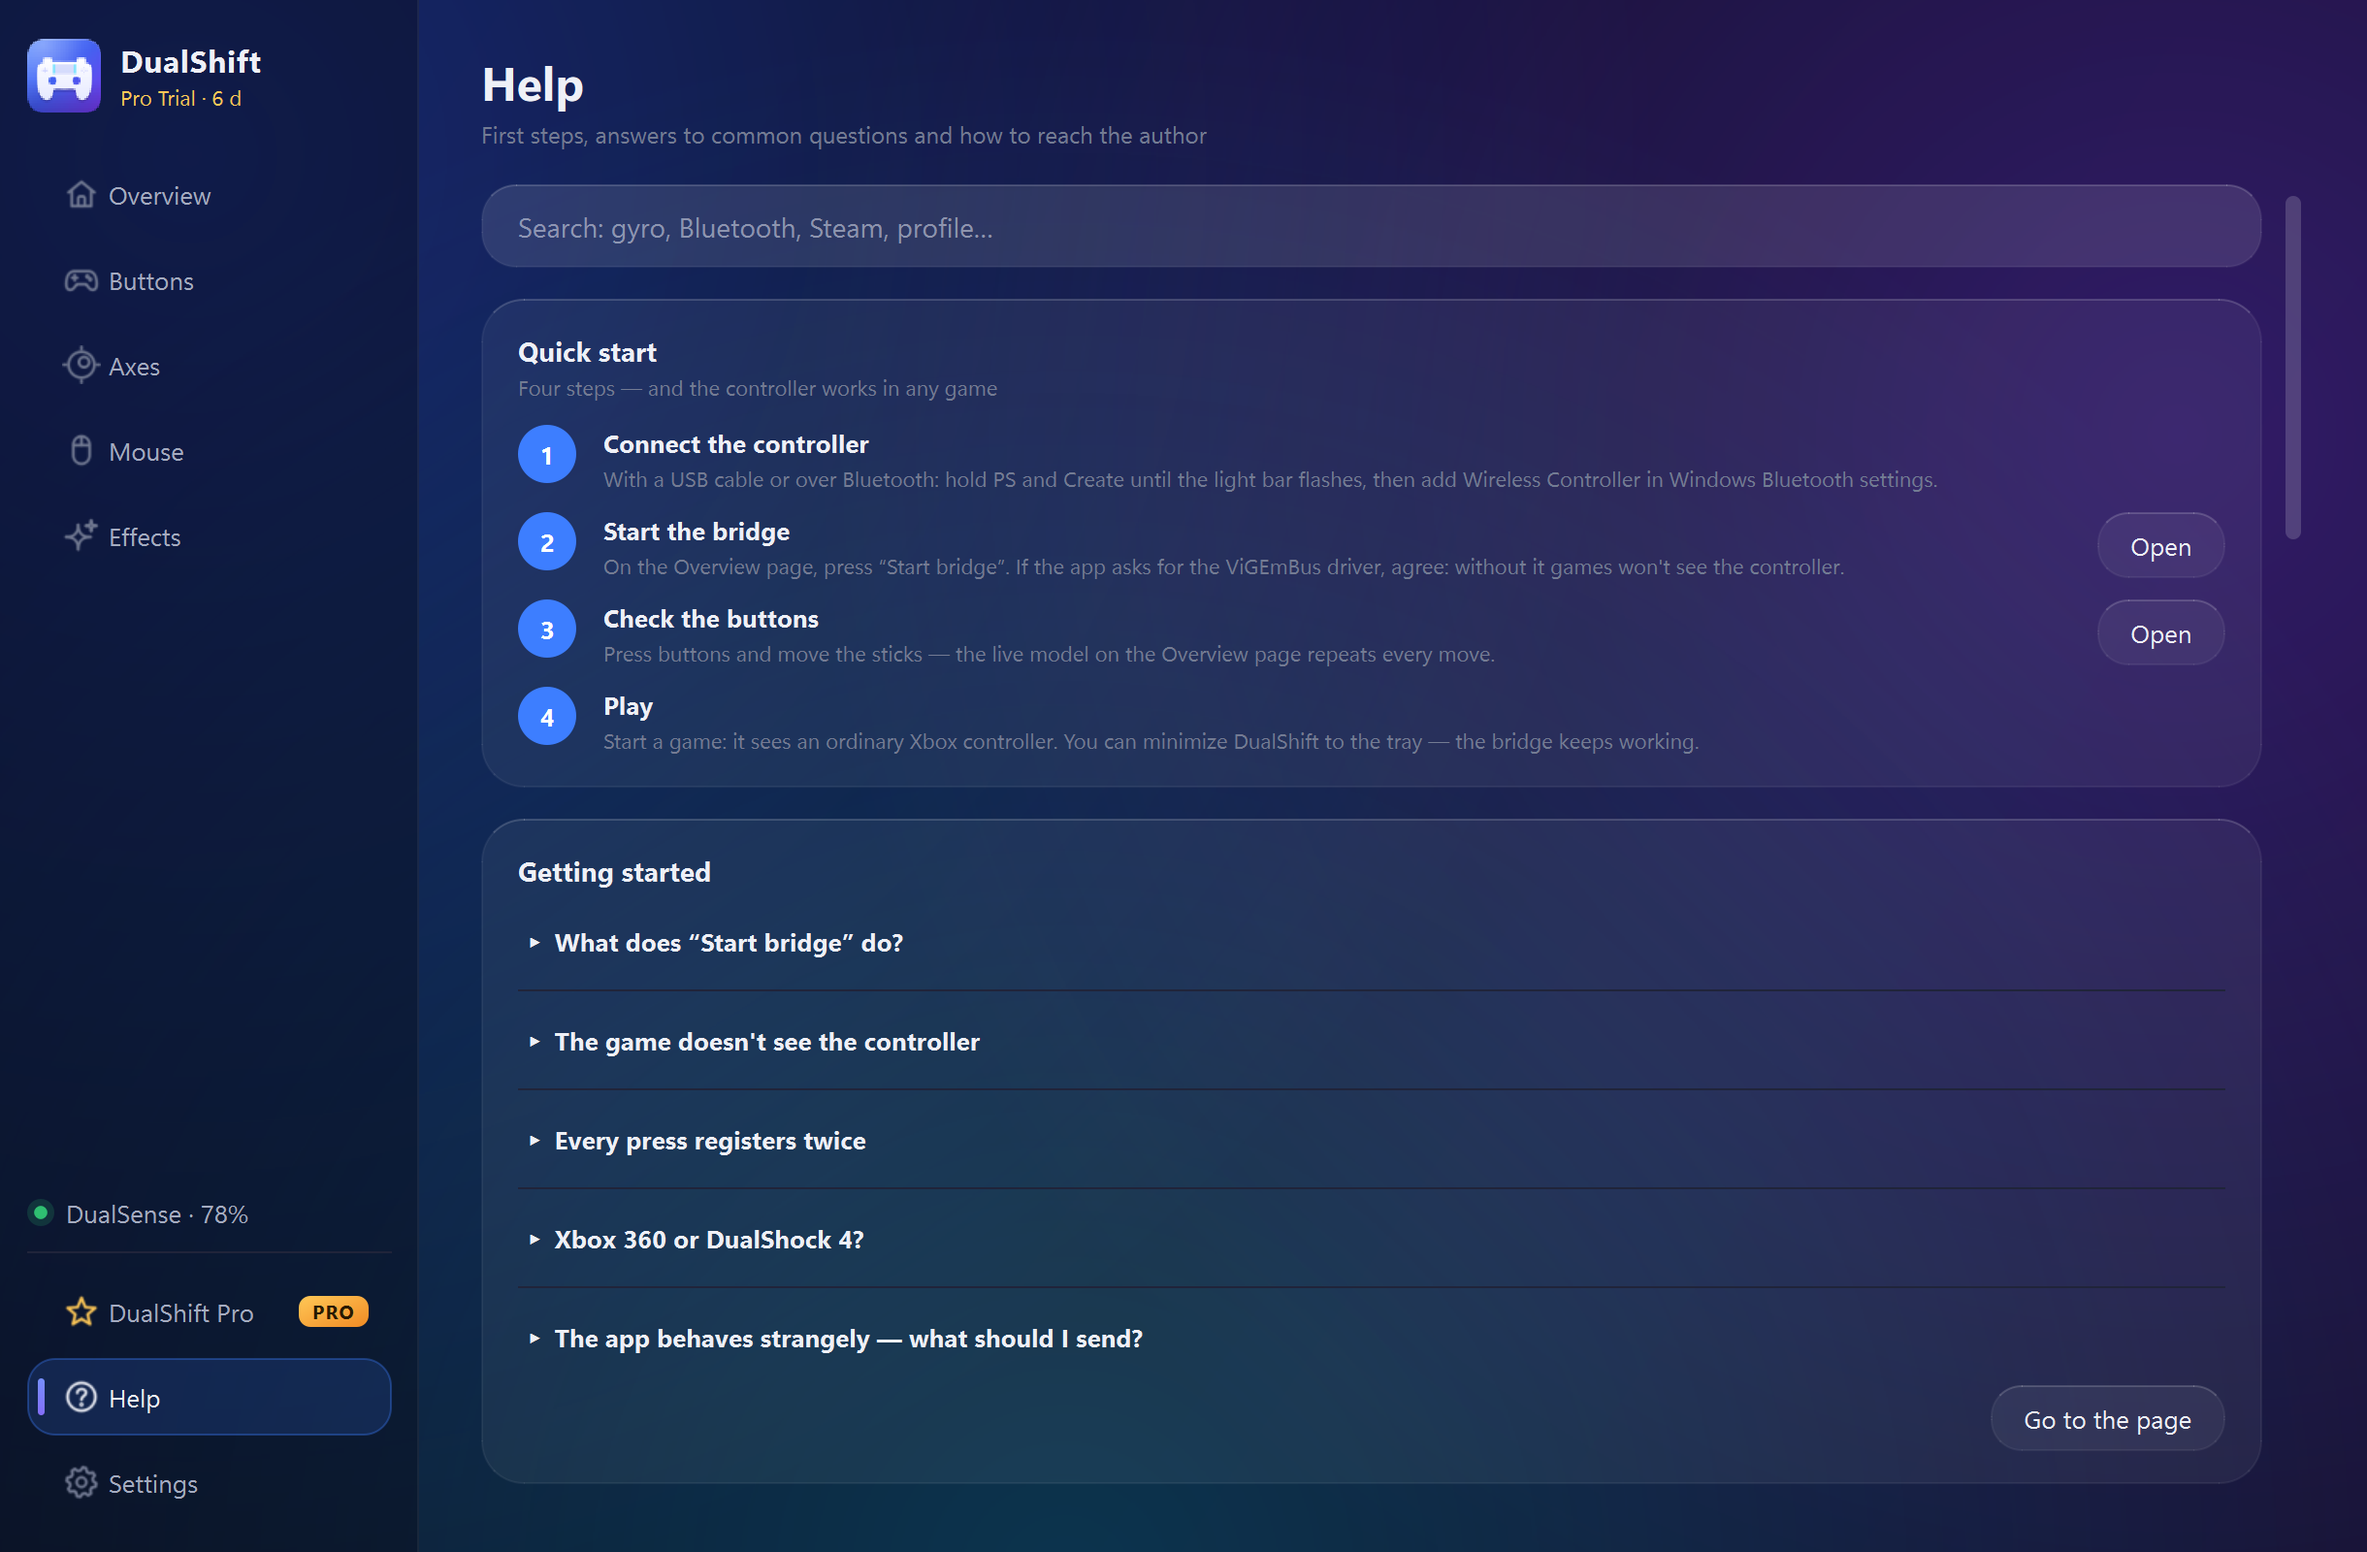
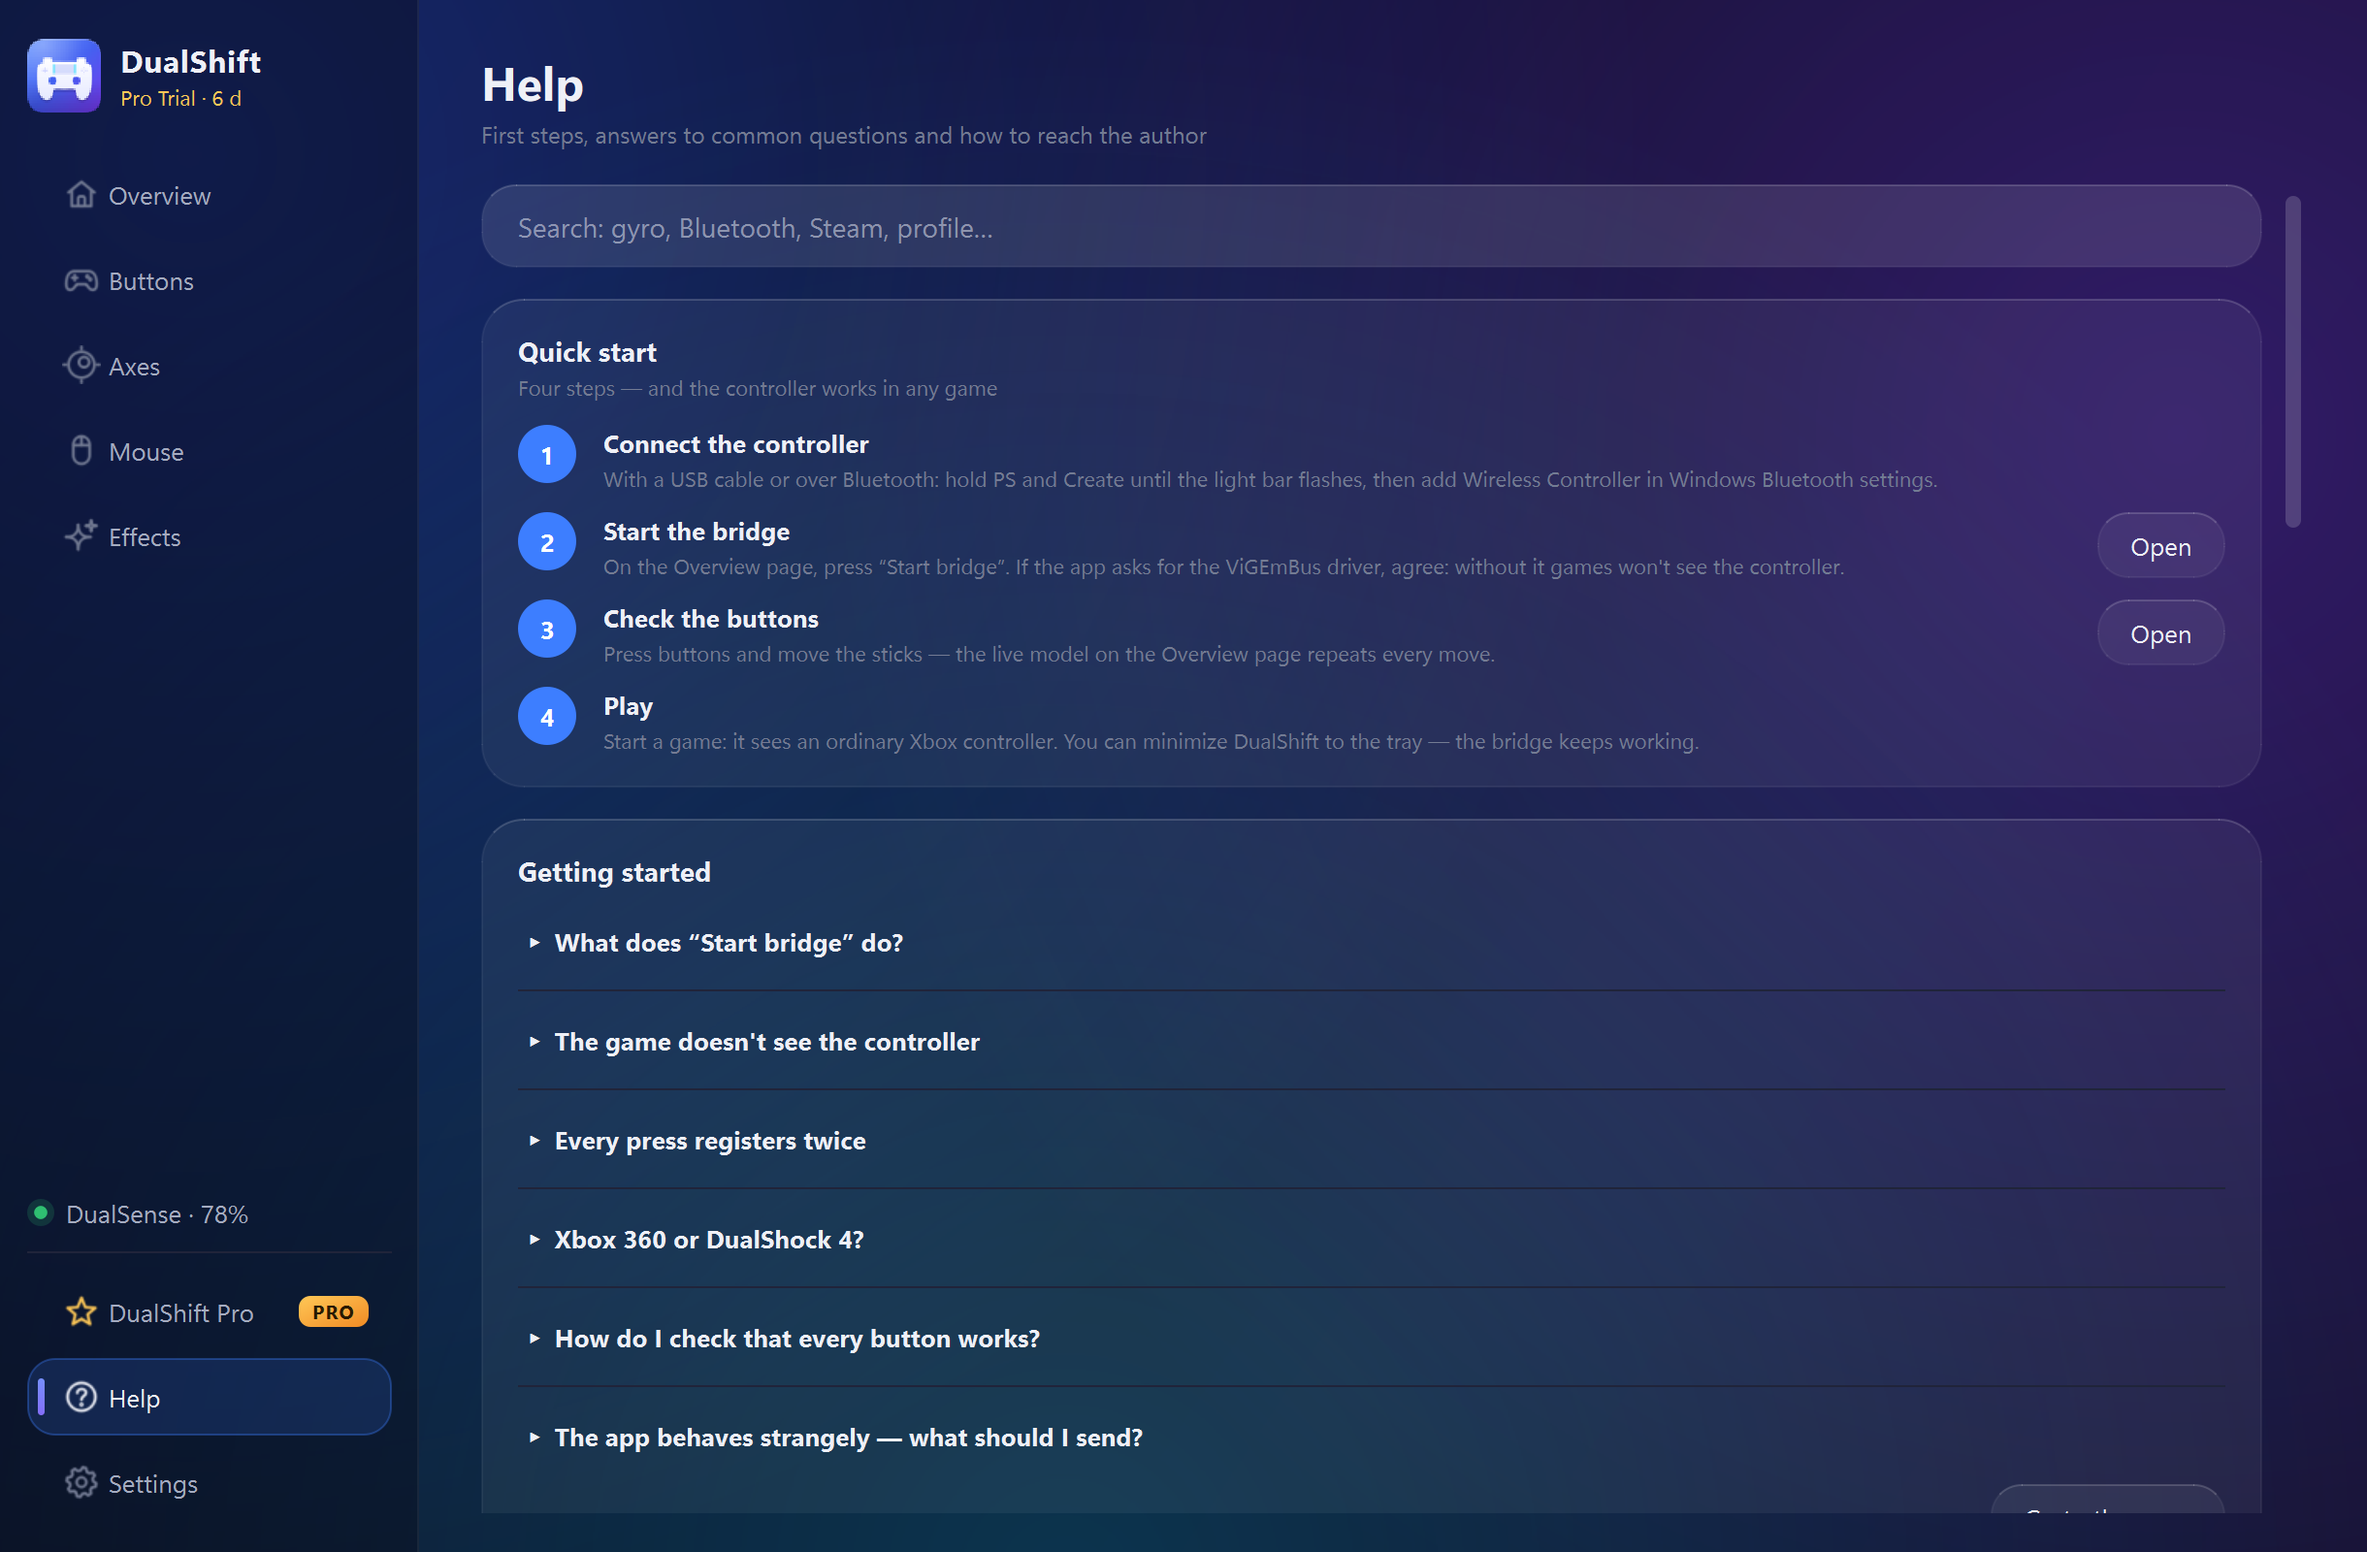
DualShift 1.2.0: 20 languages (Portuguese, Turkish, Uzbek, Indonesian, Italian, Ukrainian), Windows language on first launch, accent colours, button test, battery time left

Changed region(s): [[0.218, 0.9062, 0.4984, 0.9375], [0.218, 0.8438, 0.4984, 0.875], [0.841, 0.9062, 0.9344, 1.0]]

diff --git a/README.md b/README.md
@@ -40,6 +40,13 @@ or switch to 3D and turn it around with the mouse.
 
 ![Live 3D model](docs/06-overview-3d.png)
 
+**Button test.** Bought a used controller, or not sure a button still works?
+The **Button test** card on the Overview page lights up every button you press
+and every direction you push the sticks to, in green. A button that never
+lights up or a stick that never reaches the edge shows up at once.
+
+![Button test](docs/26-button-test.png)
+
 **Any button, any action.** Every button can do the job of any Xbox button —
 cross, circle, square and triangle are drawn just like on the controller.
 
@@ -116,12 +123,12 @@ buttons and keys, or record any combination. Works in games and in mouse mode.
 
 ![Keyboard keys](docs/07-hotkeys.png)
 
-**On-screen keyboard in 14 languages** *(Pro)*. Opens in its own window and
+**On-screen keyboard in 20 languages** *(Pro)*. Opens in its own window and
 types into whatever is active — a browser, a search box, a chat. It works like
 the keyboard on your phone: tick the languages you use, and the 🌐 key switches
 between them. Long-press a letter for its variants — é, ñ, ß, ё. Russian,
-English, Kazakh, Kyrgyz, Chechen, German, Spanish, French, Polish, Arabic and
-Hindi layouts; Korean jamo join into syllables as you type, Japanese has a
+English, Kazakh, Kyrgyz, Uzbek, Chechen, Ukrainian, Turkish, German, Spanish,
+Portuguese, French, Italian, Polish, Indonesian, Arabic and Hindi layouts; Korean jamo join into syllables as you type, Japanese has a
 kana grid with a ゛゜小 key, and Chinese goes through the Windows Pinyin input
 method. Double-tap Shift for caps lock.
 
@@ -154,9 +161,11 @@ games expect. It listens on this computer only (127.0.0.1, port 26760).
 reminds you how to avoid a game seeing the controller twice: turn off Steam
 Input for that game, or turn on exclusive access in DualShift.
 
-**Low battery warning.** When the controller drops to 15%, and again at 5%,
-Windows shows a notification and the pad buzzes twice — so the match does not
-end with a dead controller.
+**Low battery warning and time left.** When the controller drops to 15%, and
+again at 5%, Windows shows a notification and the pad buzzes twice — so the
+match does not end with a dead controller. On battery, the Overview page and
+the tray icon also show roughly how long the charge will last, worked out from
+how fast it is going down right now.
 
 **Turn the controller off from the PC.** Over Bluetooth, one click on **Turn
 off controller** — on the Overview page or in the tray menu — puts the pad to
@@ -204,7 +213,20 @@ Effects — has its own **Reset to defaults** button for just that section, and
 Settings has **Reset everything**. DualShift asks first, and your profiles,
 game list, language and Pro key stay.
 
-**14 interface languages**, a dark and a light theme, smooth animations.
+**20 interface languages** — Russian, English, Kazakh, Kyrgyz, Uzbek,
+Chechen, Ukrainian, Turkish, German, Spanish, Portuguese (Brazil), French,
+Italian, Polish, Indonesian, Arabic, Hindi, Chinese, Japanese and Korean. On
+first launch DualShift picks the language of your Windows by itself.
+
+![Portuguese](docs/30-language-pt.png)
+
+**Your colours.** A dark and a light theme and seven accent colours — blue,
+violet, teal, green, orange, pink and red. Settings → Appearance; the whole
+window changes at once, no restart.
+
+![Accent colours](docs/27-accent.png)
+
+![Violet accent](docs/28-accent-violet.png)
 
 ![Light theme](docs/16-light.png)
 
@@ -264,7 +286,8 @@ presses altogether.
 | Turn off over Bluetooth, auto power-off when idle | ✓ | ✓ |
 | Start with Windows, battery on the tray icon, built-in help | ✓ | ✓ |
 | Mic button mutes the Windows microphone, settings backup | ✓ | ✓ |
-| On-screen keyboard in 14 languages | — | ✓ |
+| Button test, battery time left, accent colours, 20 languages | ✓ | ✓ |
+| On-screen keyboard in 20 languages | — | ✓ |
 | Keyboard and mouse for games without controller support | — | ✓ |
 | Turbo | — | ✓ |
 | Per-game profiles that switch automatically | — | ✓ |
@@ -302,10 +325,10 @@ key for.
 
 ## Verifying the download
 
-`DualShift Setup.exe` 1.1.0 — 51.4 MB
+`DualShift Setup.exe` 1.2.0 — 51.8 MB
 
 ```
-SHA-256  fcf39ada0a97270a9b42b4fa1ea2dd5d4a2e4b2ffcc63e34bb0caa8fa54c31f2
+SHA-256  75f1eb85efe717ce92b4d9f28c6a1fcae8d463f26cfe04a088ef75022e7ebdd3
 ```
 
 Check it in PowerShell before running:

diff --git a/docs/release-notes-1.2.0.md b/docs/release-notes-1.2.0.md
@@ -1,0 +1,34 @@
+**Free forever, Pro when you want more.** Windows 10 and 11, 64-bit.
+
+**1.2.0 speaks 20 languages and lets you pick your colour.**
+
+**New**
+
+- **Six new languages: Portuguese (Brazil), Turkish, Uzbek, Indonesian, Italian and Ukrainian.** The whole program and the built-in help are translated, and the on-screen keyboard gets matching layouts: Turkish ı/İ and ğ ş ç, Ukrainian ї є ґ, Uzbek oʻ gʻ, Portuguese ç and ã, Italian à è ò. That makes 20 interface languages.
+- **DualShift speaks your language from the first launch.** A new install picks the language of your Windows by itself. Before, everybody started in Russian and had to find the language switch.
+- **Accent colours.** Blue, violet, teal, green, orange, pink or red — Settings → Appearance. The whole window changes at once, in the dark and the light theme.
+- **Button test.** A new card on the Overview page: press every button and push the sticks in every direction, and whatever works lights up green. It is a quick way to check a used controller or find a button that no longer responds.
+- **Battery time left.** On battery, the Overview page and the tray icon show roughly how long the charge will last — for example *≈ 3 h 20 min* — worked out from how fast it is going down right now.
+
+**Fixed**
+
+- Some strings from tables — mouse button names, stick clicks, the installer — were never checked for missing translations. Now every language is compared against the full catalogue, so no string is left untranslated.
+- A settings file from an older version is read correctly: new options take their defaults instead of breaking the next save.
+
+**Installing**
+
+Run `DualShift Setup.exe`. Windows shows a SmartScreen warning — the installer is not code-signed yet: **More info → Run anyway**. Agree to install the bundled ViGEmBus driver when the installer offers it; without it Windows cannot create the virtual controller.
+
+Already have an earlier version? Install on top — your settings, profiles, language and key stay. If you had **DualShift Demo**, the installer removes it and puts the regular version in its place.
+
+**Verify the download**
+
[1 lines of base64/hex data omitted]
+
+```powershell
+Get-FileHash "$HOME\Downloads\DualShift Setup.exe" -Algorithm SHA256
+```
+
+3D model: "Playstation 5 Dualsense" by AHarmlessPotato (Sketchfab), CC BY 4.0, modified. Adaptive trigger effects are encoded after TriggerEffectGenerator by John "Nielk1" Klein, MIT License.
+
+Bugs and questions — open an Issue and attach the error log (Help → Error log). Please say which Windows version and controller you have, and whether it is connected by USB or Bluetooth.
